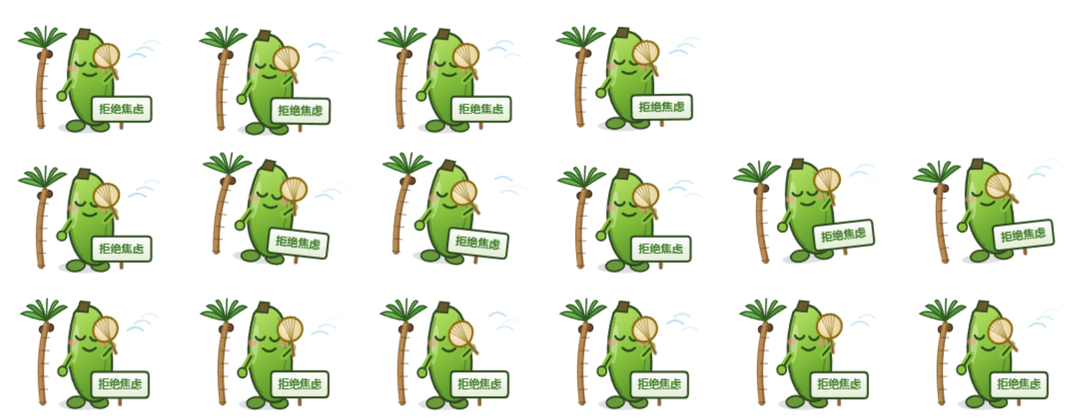
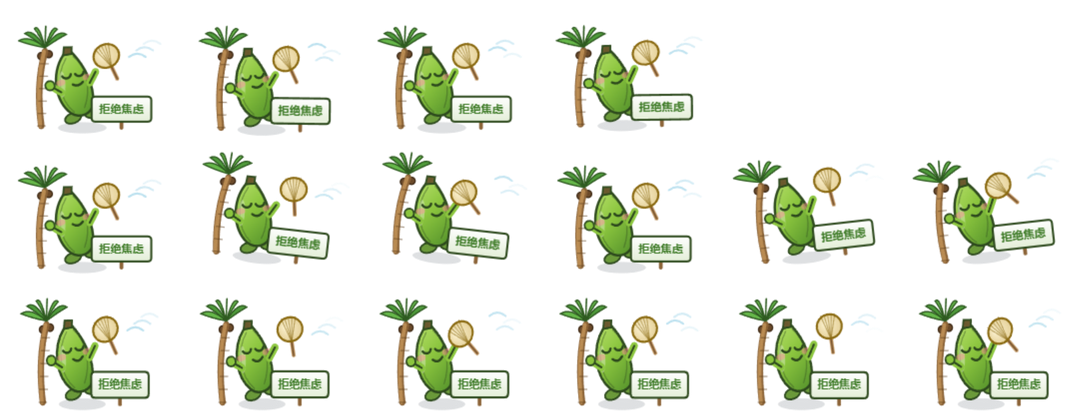
「拒绝焦虑」：香蕉改矮、改弯、斜靠在椰子树上
- 身高从约 95 缩到约 70，整体矮一截
- 蕉身改成真正的月牙形：外弧向左凸、内弧右侧凹，两端收尖
- 整体往树那边倾斜（旋转 -0.26），左手搭在树干上
- 脚贴地，右手继续举蒲扇扇风

（过程中我的正则把注释从中间截断了，留了一段残缺注释导致语法错误，
已补回完整注释。）

diff --git a/build/make-skins.js b/build/make-skins.js
@@ -1682,68 +1682,73 @@ function drawBanana(ctx, q, p, kind) {
     ctx.beginPath(); ctx.moveTo(tx - 4, ty); ctx.lineTo(tx + 4, ty); ctx.stroke();
   }
 
-  /* ---------- 站着的绿香蕉 ---------- */
+  /* ---------- 弯香蕉：斜靠在椰子树上 ---------- */
   ctx.save();
-  ctx.translate(6, breath * 0.6);
-  /* 脚 */
+  ctx.translate(-8, 4 + breath * 0.6);
+  ctx.rotate(-0.26);                    // 往树那边靠
+  /* 脚（贴地） */
   [-1, 1].forEach(function (sg) {
     ctx.fillStyle = '#6B9A3A';
-    ctx.beginPath(); ctx.ellipse(sg * 13, 48, 10, 6, sg * 0.1, 0, TAU); ctx.fill();
+    ctx.beginPath(); ctx.ellipse(sg * 11, 34, 9, 5.4, sg * 0.1, 0, TAU); ctx.fill();
     ctx.lineWidth = 2; ctx.strokeStyle = LINE; ctx.stroke();
   });
-  /* 蕉身：竖立的月牙，比之前瘦 */
-  const bg = ctx.createLinearGradient(-26, -40, 26, 44);
+  /* 蕉身：月牙形，比之前矮一截 */
+  const bg = ctx.createLinearGradient(-22, -32, 22, 34);
   bg.addColorStop(0, '#B7E06A'); bg.addColorStop(0.42, '#8CC63F'); bg.addColorStop(1, '#4E8C2A');
   ctx.fillStyle = bg;
   ctx.beginPath();
-  ctx.moveTo(-15, -44);
-  ctx.bezierCurveTo(-25, -12, -23, 22, -8, 40);
-  ctx.bezierCurveTo(2, 51, 18, 50, 23, 36);
-  ctx.bezierCurveTo(31, 12, 27, -24, 14, -44);
-  ctx.bezierCurveTo(6, -54, -8, -54, -15, -44);
+  ctx.moveTo(-4, -34);                          // 上端（收尖）
+  ctx.bezierCurveTo(-22, -18, -25, 12, -12, 28);// 外弧：向左凸出去
+  ctx.bezierCurveTo(-4, 37, 10, 35, 14, 24);    // 底端
+  ctx.bezierCurveTo(20, 6, 16, -16, 6, -34);    // 内弧：右侧凹进来
   ctx.closePath(); ctx.fill();
   ctx.lineWidth = 2.6; ctx.strokeStyle = LINE; ctx.stroke();
-  /* 棱线 + 高光 */
-  ctx.strokeStyle = 'rgba(46,74,30,.4)'; ctx.lineWidth = 1.5;
+  /* 棱线（顺着弯度走） */
+  ctx.strokeStyle = 'rgba(46,74,30,.38)'; ctx.lineWidth = 1.5;
   ctx.beginPath();
-  ctx.moveTo(-13, -40); ctx.bezierCurveTo(-22, -10, -20, 22, -6, 38); ctx.stroke();
+  ctx.moveTo(-2, -30);
+  ctx.bezierCurveTo(-18, -14, -20, 12, -8, 28);
+  ctx.stroke();
   ctx.beginPath();
-  ctx.moveTo(12, -40); ctx.bezierCurveTo(25, -10, 22, 22, 8, 36); ctx.stroke();
+  ctx.moveTo(6, -30);
+  ctx.bezierCurveTo(18, -14, 15, 10, 4, 26);
+  ctx.stroke();
+  /* 高光 */
   ctx.fillStyle = 'rgba(255,255,255,.32)';
-  ctx.beginPath(); ctx.ellipse(-14, -12, 4, 20, 0.1, 0, TAU); ctx.fill();
+  ctx.beginPath(); ctx.ellipse(-13, -4, 3.4, 14, 0.22, 0, TAU); ctx.fill();
   /* 果蒂 */
   ctx.fillStyle = '#6B5A2E';
   ctx.beginPath();
-  ctx.moveTo(-12, -46); ctx.lineTo(-8, -56); ctx.lineTo(2, -55); ctx.lineTo(0, -45);
+  ctx.moveTo(-4, -34); ctx.lineTo(-1, -42); ctx.lineTo(7, -40); ctx.lineTo(5, -33);
   ctx.closePath(); ctx.fill();
   ctx.lineWidth = 2; ctx.strokeStyle = LINE; ctx.stroke();
 
   /* 惬意的脸 */
   ctx.strokeStyle = '#2E4A1E'; ctx.lineWidth = 2.6; ctx.lineCap = 'round';
-  ctx.beginPath(); ctx.arc(-8, -22, 5.4, 0.12 * Math.PI, 0.88 * Math.PI); ctx.stroke();
-  ctx.beginPath(); ctx.arc(8, -21, 5.4, 0.12 * Math.PI, 0.88 * Math.PI); ctx.stroke();
+  ctx.beginPath(); ctx.arc(-6, -14, 5, 0.12 * Math.PI, 0.88 * Math.PI); ctx.stroke();
+  ctx.beginPath(); ctx.arc(8, -13, 5, 0.12 * Math.PI, 0.88 * Math.PI); ctx.stroke();
   ctx.fillStyle = 'rgba(255,140,150,.45)';
-  ctx.beginPath(); ctx.ellipse(-17, -14, 5.4, 3.4, 0, 0, TAU); ctx.fill();
-  ctx.beginPath(); ctx.ellipse(17, -13, 5.4, 3.4, 0, 0, TAU); ctx.fill();
+  ctx.beginPath(); ctx.ellipse(-14, -6, 5, 3.2, 0, 0, TAU); ctx.fill();
+  ctx.beginPath(); ctx.ellipse(15, -5, 5, 3.2, 0, 0, TAU); ctx.fill();
   ctx.beginPath();
-  ctx.moveTo(-5, -8); ctx.quadraticCurveTo(2, -4 + sip * 2, 9, -8);
+  ctx.moveTo(-2, -1); ctx.quadraticCurveTo(3, 3 + sip * 2, 9, -1);
   ctx.lineWidth = 2.6; ctx.stroke();
 
-  /* 左臂垂着 */
+  /* 左臂：搭在树干上 */
   ctx.strokeStyle = '#8CC63F'; ctx.lineWidth = 8; ctx.lineCap = 'round';
-  ctx.beginPath(); ctx.moveTo(-18, 0); ctx.lineTo(-28, 16 + breath); ctx.stroke();
+  ctx.beginPath(); ctx.moveTo(-16, 4); ctx.lineTo(-26, -6 + breath * 0.5); ctx.stroke();
   ctx.lineWidth = 2.2; ctx.strokeStyle = LINE; ctx.stroke();
   ctx.fillStyle = '#8CC63F';
-  ctx.beginPath(); ctx.arc(-28, 16 + breath, 5, 0, TAU); ctx.fill();
+  ctx.beginPath(); ctx.arc(-26, -6 + breath * 0.5, 5, 0, TAU); ctx.fill();
   ctx.lineWidth = 2; ctx.strokeStyle = LINE; ctx.stroke();
 
-  /* 右臂举着扇子 */
+  /* 右臂举扇子 */
   ctx.strokeStyle = '#8CC63F'; ctx.lineWidth = 8;
-  ctx.beginPath(); ctx.moveTo(18, 0); ctx.lineTo(28, -10 + breath); ctx.stroke();
+  ctx.beginPath(); ctx.moveTo(16, 2); ctx.lineTo(25, -8 + breath); ctx.stroke();
   ctx.lineWidth = 2.2; ctx.strokeStyle = LINE; ctx.stroke();
   ctx.restore();
 
-  /* ---------- 手里的蒲扇（正在扇风） ---------- */
+/* ---------- 手里的蒲扇（正在扇风） ---------- */
   const fanX = 34, fanY = -10 + breath * 1.6;
   ctx.save();
   ctx.translate(fanX, fanY);

diff --git a/build/_banana3.js b/build/_banana3.js
@@ -1,0 +1,79 @@
+/* 临时：香蕉改矮、改成弯的月牙形、斜靠在椰子树上 */
+const fs = require('fs');
+const p = 'build/make-skins.js';
+let s = fs.readFileSync(p, 'utf8');
+
+const re = /[ \t]*\/\* ---------- 站着的绿香蕉 ---------- \*\/[\s\S]*?ctx\.restore\(\);\r?\n\r?\n[ \t]*\/\* ---------- 手里的蒲扇/;
+if (!re.test(s)) { console.error('没找到香蕉身体段'); process.exit(1); }
+
+const NEW = `  /* ---------- 弯香蕉：斜靠在椰子树上 ---------- */
+  ctx.save();
+  ctx.translate(-8, 4 + breath * 0.6);
+  ctx.rotate(-0.26);                    // 往树那边靠
+  /* 脚（贴地） */
+  [-1, 1].forEach(function (sg) {
+    ctx.fillStyle = '#6B9A3A';
+    ctx.beginPath(); ctx.ellipse(sg * 11, 34, 9, 5.4, sg * 0.1, 0, TAU); ctx.fill();
+    ctx.lineWidth = 2; ctx.strokeStyle = LINE; ctx.stroke();
+  });
+  /* 蕉身：月牙形，比之前矮一截 */
+  const bg = ctx.createLinearGradient(-22, -32, 22, 34);
+  bg.addColorStop(0, '#B7E06A'); bg.addColorStop(0.42, '#8CC63F'); bg.addColorStop(1, '#4E8C2A');
+  ctx.fillStyle = bg;
+  ctx.beginPath();
+  ctx.moveTo(-4, -34);                          // 上端（收尖）
+  ctx.bezierCurveTo(-22, -18, -25, 12, -12, 28);// 外弧：向左凸出去
+  ctx.bezierCurveTo(-4, 37, 10, 35, 14, 24);    // 底端
+  ctx.bezierCurveTo(20, 6, 16, -16, 6, -34);    // 内弧：右侧凹进来
+  ctx.closePath(); ctx.fill();
+  ctx.lineWidth = 2.6; ctx.strokeStyle = LINE; ctx.stroke();
+  /* 棱线（顺着弯度走） */
+  ctx.strokeStyle = 'rgba(46,74,30,.38)'; ctx.lineWidth = 1.5;
+  ctx.beginPath();
+  ctx.moveTo(-2, -30);
+  ctx.bezierCurveTo(-18, -14, -20, 12, -8, 28);
+  ctx.stroke();
+  ctx.beginPath();
+  ctx.moveTo(6, -30);
+  ctx.bezierCurveTo(18, -14, 15, 10, 4, 26);
+  ctx.stroke();
+  /* 高光 */
+  ctx.fillStyle = 'rgba(255,255,255,.32)';
+  ctx.beginPath(); ctx.ellipse(-13, -4, 3.4, 14, 0.22, 0, TAU); ctx.fill();
+  /* 果蒂 */
+  ctx.fillStyle = '#6B5A2E';
+  ctx.beginPath();
+  ctx.moveTo(-4, -34); ctx.lineTo(-1, -42); ctx.lineTo(7, -40); ctx.lineTo(5, -33);
+  ctx.closePath(); ctx.fill();
+  ctx.lineWidth = 2; ctx.strokeStyle = LINE; ctx.stroke();
+
+  /* 惬意的脸 */
+  ctx.strokeStyle = '#2E4A1E'; ctx.lineWidth = 2.6; ctx.lineCap = 'round';
+  ctx.beginPath(); ctx.arc(-6, -14, 5, 0.12 * Math.PI, 0.88 * Math.PI); ctx.stroke();
+  ctx.beginPath(); ctx.arc(8, -13, 5, 0.12 * Math.PI, 0.88 * Math.PI); ctx.stroke();
+  ctx.fillStyle = 'rgba(255,140,150,.45)';
+  ctx.beginPath(); ctx.ellipse(-14, -6, 5, 3.2, 0, 0, TAU); ctx.fill();
+  ctx.beginPath(); ctx.ellipse(15, -5, 5, 3.2, 0, 0, TAU); ctx.fill();
+  ctx.beginPath();
+  ctx.moveTo(-2, -1); ctx.quadraticCurveTo(3, 3 + sip * 2, 9, -1);
+  ctx.lineWidth = 2.6; ctx.stroke();
+
+  /* 左臂：搭在树干上 */
+  ctx.strokeStyle = '#8CC63F'; ctx.lineWidth = 8; ctx.lineCap = 'round';
+  ctx.beginPath(); ctx.moveTo(-16, 4); ctx.lineTo(-26, -6 + breath * 0.5); ctx.stroke();
+  ctx.lineWidth = 2.2; ctx.strokeStyle = LINE; ctx.stroke();
+  ctx.fillStyle = '#8CC63F';
+  ctx.beginPath(); ctx.arc(-26, -6 + breath * 0.5, 5, 0, TAU); ctx.fill();
+  ctx.lineWidth = 2; ctx.strokeStyle = LINE; ctx.stroke();
+
+  /* 右臂举扇子 */
+  ctx.strokeStyle = '#8CC63F'; ctx.lineWidth = 8;
+  ctx.beginPath(); ctx.moveTo(16, 2); ctx.lineTo(25, -8 + breath); ctx.stroke();
+  ctx.lineWidth = 2.2; ctx.strokeStyle = LINE; ctx.stroke();
+  ctx.restore();
+
+`;
+
+s = s.replace(re, NEW);
+fs.writeFileSync(p, s, 'utf8');
+console.log('香蕉已改矮、改弯、斜靠树干');
